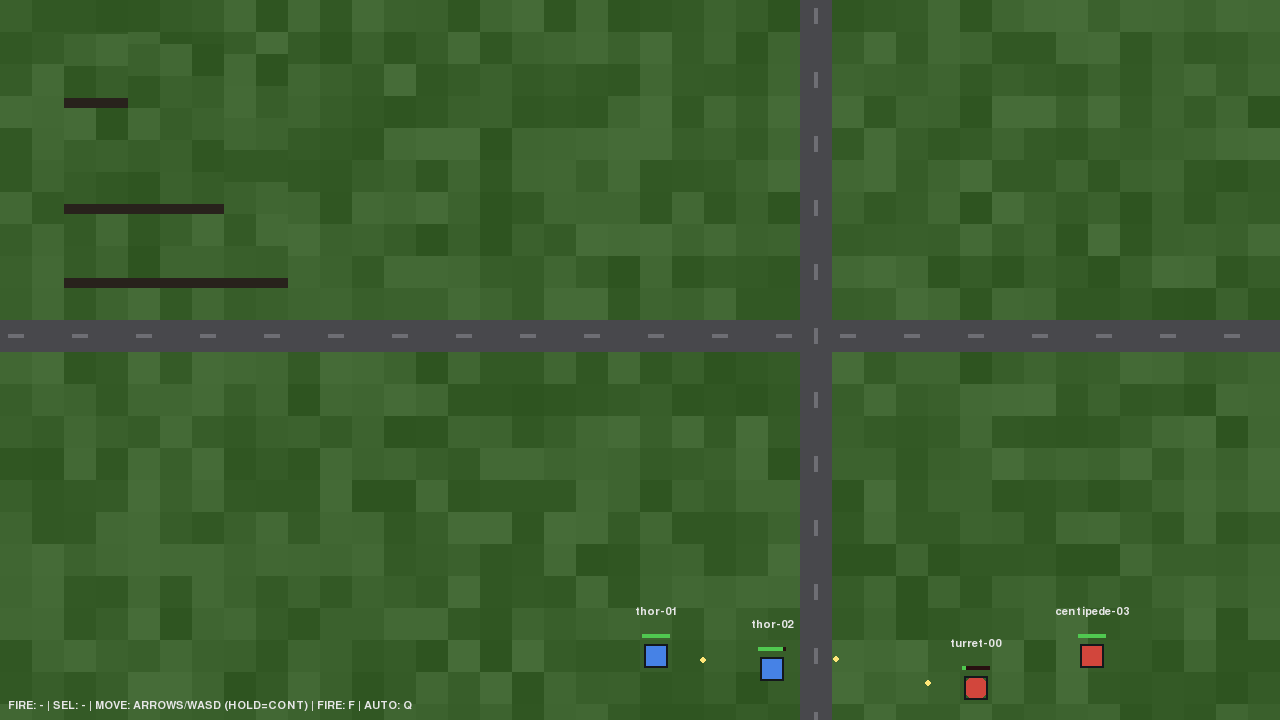
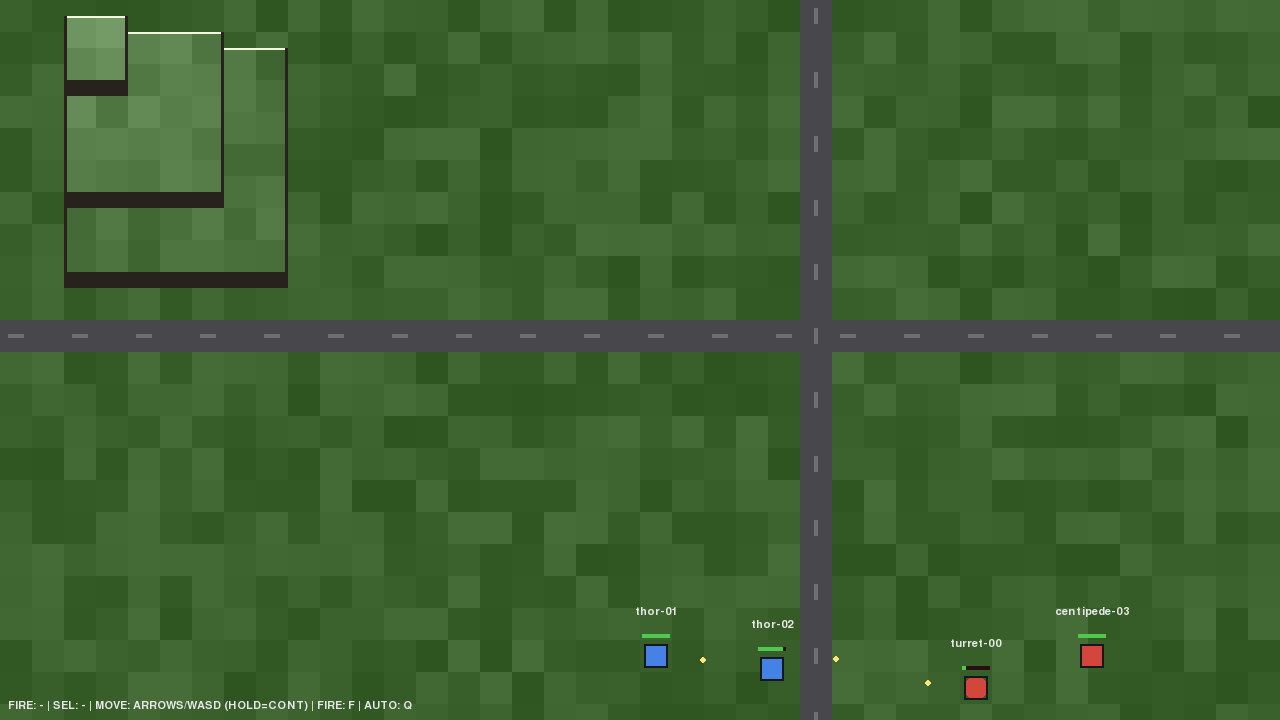
fix(visual): terrace readability — 16px step, level tint, rim lines, side shades (V1.2)

Changed region(s): [[0.0312, 0.0, 0.25, 0.3056], [0.0312, 0.3667, 0.2188, 0.3972]]

diff --git a/tests/unit/test_terrace_render.py b/tests/unit/test_terrace_render.py
@@ -1,4 +1,8 @@
-"""P1-A terrace 渲染单测：版面偏移数学 / 崖壁出现条件 / y 排序权重 / HUD ELEV / CLI 开关。"""
+"""P1-A terrace 渲染单测：版面偏移数学 / 崖壁出现条件 / y 排序权重 / HUD ELEV / CLI 开关。
+
+V1.2（用户反馈「高度看不出来」）：STEP 16px + 顶面分级提亮（ADD）+ 北缘亮脚线 + 东/西缘暗条——
+顶面颜色断言改用同款 BLEND_RGB_ADD 复刻（_tinted），新增脚线/侧缘/提亮用例。
+"""
 
 from __future__ import annotations
 
@@ -10,6 +14,9 @@ from pymc2.domain.entities.mech import MAP_SIZE_PX, MAP_TILES, TILE_SIZE_PX, Fac
 from pymc2.main import _apply_terrain, parse_args
 from pymc2.presentation.renderer import (
     _CLIFF_COLOR,
+    _RIM_COLOR,
+    _SIDE_SHADE_WIDTH,
+    _TINT_PER_LEVEL,
     ELEVATION_STEP_PX,
     Renderer,
     _tile_color,
@@ -17,7 +24,16 @@ from pymc2.presentation.renderer import (
 from pymc2.services.battle_service import BattleService
 
 SCREEN_SIZE = (1280, 720)
-TOP_OFFSET = ELEVATION_MAX * ELEVATION_STEP_PX  # terrace 版面顶部预留（30px）
+TOP_OFFSET = ELEVATION_MAX * ELEVATION_STEP_PX  # terrace 版面顶部预留（48px）
+
+
+def _tinted(color: tuple[int, int, int], level: int) -> tuple[int, int, int]:
+    """顶面分级提亮复刻（与 renderer._terraced_terrain_surface 同款 BLEND_RGB_ADD）。"""
+    probe = pygame.Surface((1, 1))
+    probe.fill(color)
+    lift = _TINT_PER_LEVEL * level
+    probe.fill((lift, lift, lift), special_flags=pygame.BLEND_RGB_ADD)
+    return probe.get_at((0, 0))[:3]
 
 
 def _grid(elev: dict[tuple[int, int], int]) -> ElevationGrid:
@@ -114,13 +130,44 @@ class TestTerraceBake:
         assert renderer._terrain_y_offset == TOP_OFFSET
 
     def test_top_face_shifts_up_into_north_neighbor(self, screen: pygame.Surface) -> None:
-        """顶面 = tile 纹理上移 e*STEP：上移区在 flat 版面属北邻 → 颜色取本 tile。"""
+        """顶面 = tile 纹理上移 e*STEP 并按级提亮：上移区颜色 = 本 tile 纹理 × tint(e)。"""
         hx, hy = _distinct_color_tile()
         renderer = Renderer(screen, elevation=_grid({(hx, hy): 2}))
-        sample_surface_y = hy * TILE_SIZE_PX + 12  # 版面坐标：flat 语义下属北邻行
-        assert renderer._terrain.get_at((hx * TILE_SIZE_PX + 16, sample_surface_y))[:3] == _tile_color(hx, hy)
+        sample_surface_y = hy * TILE_SIZE_PX + 20  # 顶面内（避开北缘脚线 2px）
+        assert renderer._terrain.get_at((hx * TILE_SIZE_PX + 16, sample_surface_y))[:3] == _tinted(
+            _tile_color(hx, hy), 2
+        )
         flat = Renderer(screen)._terrain
         assert flat.get_at((hx * TILE_SIZE_PX + 16, sample_surface_y - TOP_OFFSET))[:3] == _tile_color(hx, hy - 1)
+
+    def test_top_face_brighter_than_untinted(self, screen: pygame.Surface) -> None:
+        """分级提亮可感知：e=2 顶面亮度严格高于原纹理（用户反馈「高度看不出来」回归钉）。"""
+        hx, hy = _distinct_color_tile()
+        renderer = Renderer(screen, elevation=_grid({(hx, hy): 2}))
+        sample_surface_y = hy * TILE_SIZE_PX + 20
+        got = renderer._terrain.get_at((hx * TILE_SIZE_PX + 16, sample_surface_y))[:3]
+        raw = _tile_color(hx, hy)
+        assert sum(got) > sum(raw)
+
+    def test_north_rim_line_when_north_lower(self, screen: pygame.Surface) -> None:
+        """北邻更低 → 顶面北缘 2px 亮脚线（等高线语义）；北邻同高 → 无脚线。"""
+        hx, hy = _distinct_color_tile()
+        rim_grid = _grid({(hx, hy): 2})  # 北邻缺省 0 < 2 → 画脚线
+        renderer = Renderer(screen, elevation=rim_grid)
+        rim_y = hy * TILE_SIZE_PX - 2 * ELEVATION_STEP_PX + TOP_OFFSET + 1  # 顶面北缘内 1px
+        assert renderer._terrain.get_at((hx * TILE_SIZE_PX + 16, rim_y))[:3] == _RIM_COLOR
+        no_rim_grid = _grid({(hx, hy): 2, (hx, hy - 1): 2})  # 北邻同高 → 不画脚线
+        renderer_no_rim = Renderer(screen, elevation=no_rim_grid)
+        north_y = hy * TILE_SIZE_PX - 2 * ELEVATION_STEP_PX + TOP_OFFSET + 0
+        assert renderer_no_rim._terrain.get_at((hx * TILE_SIZE_PX + 16, north_y))[:3] != _RIM_COLOR
+
+    def test_east_side_shade_when_east_lower(self, screen: pygame.Surface) -> None:
+        """东邻更低 → 顶面东缘 _SIDE_SHADE_WIDTH 暗条（零宽侧面近似）。"""
+        hx, hy = _distinct_color_tile()
+        renderer = Renderer(screen, elevation=_grid({(hx, hy): 2, (hx + 1, hy): 0}))
+        top_surface_y = hy * TILE_SIZE_PX - 2 * ELEVATION_STEP_PX + TOP_OFFSET + 16  # 顶面中部
+        strip_x = hx * TILE_SIZE_PX + TILE_SIZE_PX - _SIDE_SHADE_WIDTH + 1
+        assert renderer._terrain.get_at((strip_x, top_surface_y))[:3] == _CLIFF_COLOR
 
     def test_south_cliff_band_drawn_when_south_lower(self, screen: pygame.Surface) -> None:
         """南邻更低 → 顶面下缘与南邻顶面上缘之间填深色崖壁（高差×STEP）。"""
@@ -130,18 +177,23 @@ class TestTerraceBake:
         assert renderer._terrain.get_at((hx * TILE_SIZE_PX + 16, band_surface_y))[:3] == _CLIFF_COLOR
 
     def test_no_band_when_south_same_elevation(self, screen: pygame.Surface) -> None:
-        """南邻同高 → 无崖壁：条带区被南邻上移顶面覆盖（颜色 = 南邻纹理）。"""
+        """南邻同高 → 无崖壁：条带区被南邻上移顶面覆盖（颜色 = 南邻纹理×tint(2)）。"""
         hx, hy = _distinct_color_tile()
         renderer = Renderer(screen, elevation=_grid({(hx, hy): 2, (hx, hy + 1): 2}))
         band_surface_y = hy * TILE_SIZE_PX + 32 - 2 * ELEVATION_STEP_PX + TOP_OFFSET + 5
-        assert renderer._terrain.get_at((hx * TILE_SIZE_PX + 16, band_surface_y))[:3] == _tile_color(hx, hy + 1)
+        assert renderer._terrain.get_at((hx * TILE_SIZE_PX + 16, band_surface_y))[:3] == _tinted(
+            _tile_color(hx, hy + 1), 2
+        )
 
     def test_no_band_when_south_higher(self, screen: pygame.Surface) -> None:
         """南邻更高 → 无崖壁：残条带被南邻（抬得更高）顶面覆盖。"""
         hx, hy = _distinct_color_tile()
         renderer = Renderer(screen, elevation=_grid({(hx, hy): 1, (hx, hy + 1): 3}))
-        strip_surface_y = hy * TILE_SIZE_PX + 32 - ELEVATION_STEP_PX + TOP_OFFSET + 5  # 南邻更高 → 无崖壁
-        assert renderer._terrain.get_at((hx * TILE_SIZE_PX + 16, strip_surface_y))[:3] == _tile_color(hx, hy + 1)
+        # 南邻（e=3）顶面版面区间 [(hy+1)*32-3*STEP+TOP_OFFSET, +32)：取条带内中点
+        strip_surface_y = (hy + 1) * TILE_SIZE_PX - 3 * ELEVATION_STEP_PX + TOP_OFFSET + 8
+        assert renderer._terrain.get_at((hx * TILE_SIZE_PX + 16, strip_surface_y))[:3] == _tinted(
+            _tile_color(hx, hy + 1), 3
+        )
 
     def test_map_south_edge_counts_as_ground(self, screen: pygame.Surface) -> None:
         """地图南缘（越界视为 0）→ 边缘崖壁照画。"""

diff --git a/src/pymc2/presentation/renderer.py b/src/pymc2/presentation/renderer.py
@@ -73,7 +73,12 @@ _PANEL_LINE_STEP = 15
 _DROPTEAM_SLOT_COUNT = 4  # 原版 4 dropteam：选中机甲最多占 4 个槽位
 
 # P1-A terrace：tile 顶面每 1 级高程的屏幕上移量；侧面（南侧崖壁）深色正面。
-ELEVATION_STEP_PX = 10
+# V1.2（用户反馈「高度看不出来」）：STEP 10→16 + 顶面分级提亮 + 北缘亮脚线 +
+# 东/西缘暗条（纯 Y 投影下零宽侧面用边缘条近似，原 P1-A §5 偏离修订）。
+ELEVATION_STEP_PX = 16
+_TINT_PER_LEVEL = 16  # 顶面每级提亮增量（BLEND_RGB_ADD，暗部抬升/亮部钳制）
+_RIM_COLOR = (246, 246, 228)  # 顶面北缘亮脚线（等高线语义）
+_SIDE_SHADE_WIDTH = 3  # 东/西邻更低时顶面侧缘暗条宽度
 _CLIFF_COLOR = (40, 34, 28)
 
 
@@ -265,27 +270,56 @@ class Renderer:
         return self._terraced_terrain_surface(surface), ELEVATION_MAX * ELEVATION_STEP_PX
 
     def _terraced_terrain_surface(self, base: pygame.Surface) -> pygame.Surface:
-        """terrace 版面（P1-A）：底图下移 ELEVATION_MAX*STEP 预留顶部抬升空间，逐 tile
-        自北向南（行序）覆盖绘制——顶面 = 原 tile 纹理区上移 e*STEP（行序使高层顶面
-        正确压住北邻低层底边），南邻更低时补深色崖壁（高度 = 高差×STEP，上缘接本 tile
-        顶面下缘、下缘接南邻顶面上缘，两端精确衔接）；地图南缘越界视为 0 → 边缘崖壁。
-        北/东/西侧高差在本投影（纯 Y 偏移）下为零宽接缝，不单独画侧面（设计文档 §5）。"""
+        """terrace 版面（P1-A；V1.2 可读性增强）：底图下移 ELEVATION_MAX*STEP 预留顶部
+        抬升空间，逐 tile 自北向南（行序）覆盖绘制——顶面 = 原tile 纹理区上移 e*STEP
+        并按级提亮（高处更亮，BLEND_RGB_ADD），北邻更低补亮脚线、东/西邻更低补侧缘
+        暗条（纯 Y 投影零宽侧面的近似），南邻更低补深色崖壁（高度 = 高差×STEP，两端
+        精确衔接）；地图边缘越界视为 0 → 边缘崖壁/脚线照画。行序使高层顶面正确压住
+        北邻低层底边。"""
         assert self._elevation is not None
         grid = self._elevation
         offset = ELEVATION_MAX * ELEVATION_STEP_PX
         surface = pygame.Surface((MAP_SIZE_PX, MAP_SIZE_PX + offset))
         surface.blit(base, (0, offset))
+        # 顶面分级提亮：每级一份底图拷贝（一次性构建，ELEVATION_MAX+1 份；ADD 提亮）。
+        tinted: dict[int, pygame.Surface] = {0: base}
+        for level in range(1, ELEVATION_MAX + 1):
+            level_surface = base.copy()
+            lift = _TINT_PER_LEVEL * level
+            level_surface.fill((lift, lift, lift), special_flags=pygame.BLEND_RGB_ADD)
+            tinted[level] = level_surface
         for tile_y in range(MAP_TILES):
             for tile_x in range(MAP_TILES):
                 e = grid.elevation_at((tile_x, tile_y))
                 if e <= 0:
                     continue
                 shift = e * ELEVATION_STEP_PX
+                top_rect = pygame.Rect(tile_x * TILE_SIZE_PX, tile_y * TILE_SIZE_PX, TILE_SIZE_PX, TILE_SIZE_PX)
                 surface.blit(
-                    base,
-                    (tile_x * TILE_SIZE_PX, tile_y * TILE_SIZE_PX - shift + offset),
-                    pygame.Rect(tile_x * TILE_SIZE_PX, tile_y * TILE_SIZE_PX, TILE_SIZE_PX, TILE_SIZE_PX),
+                    tinted[e],
+                    (top_rect.x, top_rect.y - shift + offset),
+                    top_rect,
                 )
+                if grid.elevation_at((tile_x, tile_y - 1)) < e:
+                    surface.fill(
+                        _RIM_COLOR,
+                        pygame.Rect(top_rect.x, top_rect.y - shift + offset, TILE_SIZE_PX, 2),
+                    )
+                if grid.elevation_at((tile_x + 1, tile_y)) < e:
+                    surface.fill(
+                        _CLIFF_COLOR,
+                        pygame.Rect(
+                            top_rect.x + TILE_SIZE_PX - _SIDE_SHADE_WIDTH,
+                            top_rect.y - shift + offset,
+                            _SIDE_SHADE_WIDTH,
+                            TILE_SIZE_PX,
+                        ),
+                    )
+                if grid.elevation_at((tile_x - 1, tile_y)) < e:
+                    surface.fill(
+                        _CLIFF_COLOR,
+                        pygame.Rect(top_rect.x, top_rect.y - shift + offset, _SIDE_SHADE_WIDTH, TILE_SIZE_PX),
+                    )
                 e_south = grid.elevation_at((tile_x, tile_y + 1))
                 if e_south < e:
                     band_top = tile_y * TILE_SIZE_PX + TILE_SIZE_PX - shift + offset

diff --git a/tests/e2e/test_p1a_elevation_slice.py b/tests/e2e/test_p1a_elevation_slice.py
@@ -22,6 +22,8 @@ from pymc2.domain.orders.tactical_order import OrderOrigin, OrderType, TacticalO
 from pymc2.presentation.renderer import (
     _CLIFF_COLOR,
     _ROAD_COLOR,
+    _TINT_PER_LEVEL,
+    ELEVATION_STEP_PX,
     WINDOW_HEIGHT_PX,
     WINDOW_WIDTH_PX,
     Renderer,
@@ -121,10 +123,13 @@ def test_hills_terrain_slice(hills_game: main_module.Game) -> None:
     assert game.service.select_at(*_tile_center(PLAYER_SPAWN_TILE))  # 选中：HUD ELEV + 选中框
     main_module.run_frame(game, 1 / 60)
     cliff_x, cliff_y, cliff_e = _cliff_tile_in_view(grid)
-    top_face_y = cliff_y * TILE_SIZE_PX - cliff_e * 10 + 4  # flat 语义下属北邻行 → 证顶面上移
-    assert game.screen.get_at((cliff_x * TILE_SIZE_PX + 16, top_face_y))[:3] == _tile_color(cliff_x, cliff_y)
+    # 顶面内避开脚线（屏幕 y 可能被视口上缘裁剪 → 钳制），证顶面上移
+    top_face_y = max(2, cliff_y * TILE_SIZE_PX - cliff_e * ELEVATION_STEP_PX + 8)
+    lift = _TINT_PER_LEVEL * cliff_e  # V1.2：顶面按级提亮（ADD）
+    expected_top = tuple(min(255, c + lift) for c in _tile_color(cliff_x, cliff_y))
+    assert game.screen.get_at((cliff_x * TILE_SIZE_PX + 16, top_face_y))[:3] == expected_top
     e_south = grid.elevation_at((cliff_x, cliff_y + 1))
-    band_y = cliff_y * TILE_SIZE_PX + TILE_SIZE_PX - ((cliff_e + e_south) * 10) // 2  # 崖壁条带中部
+    band_y = cliff_y * TILE_SIZE_PX + TILE_SIZE_PX - ((cliff_e + e_south) * ELEVATION_STEP_PX) // 2  # 崖壁条带中部
     assert game.screen.get_at((cliff_x * TILE_SIZE_PX + 16, band_y))[:3] == _CLIFF_COLOR
     saved.append(save_screenshot(game.screen, "01_hills_opening.png"))
 
@@ -145,9 +150,9 @@ def test_hills_terrain_slice(hills_game: main_module.Game) -> None:
     assert px.move_target is None
     assert px.position == _tile_center(target)
     assert grid.elevation_at(px.tile) == 1  # 爬 1 级落位
-    # 机甲随 tile 高程同步上移（e=1 → 上移 10px，程序化方块阵营色）
+    # 机甲随 tile 高程同步上移（e=1 → 上移 STEP px，程序化方块阵营色）
     mx, my = int(px.x), int(px.y)
-    assert game.screen.get_at((mx, my - 10))[:3] == PLAYER_BODY_COLOR
+    assert game.screen.get_at((mx, my - ELEVATION_STEP_PX))[:3] == PLAYER_BODY_COLOR
     saved.append(save_screenshot(game.screen, "02_climbed_hill.png"))
 
     # --- 步骤 2：爬升 >1 目标被拒（回执 = dispatcher 失败惯例：指令入 order_log）---
